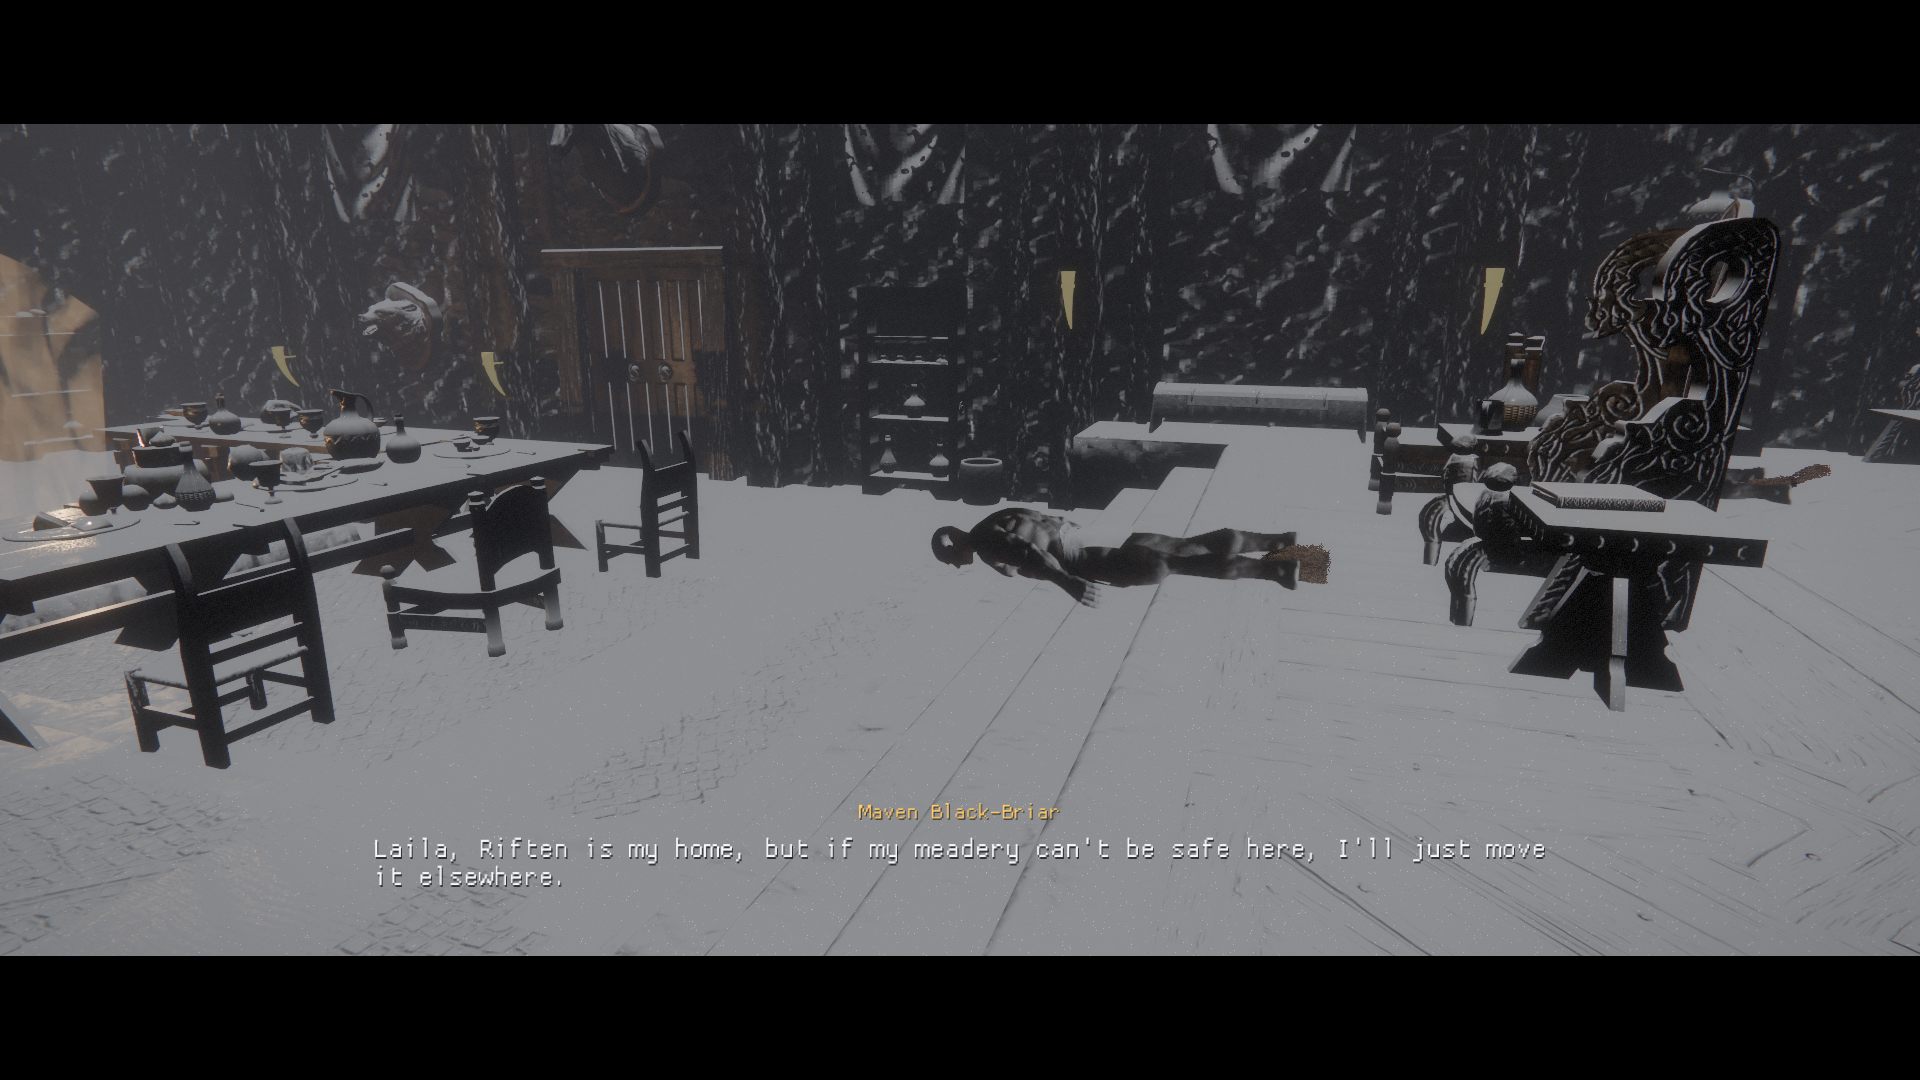
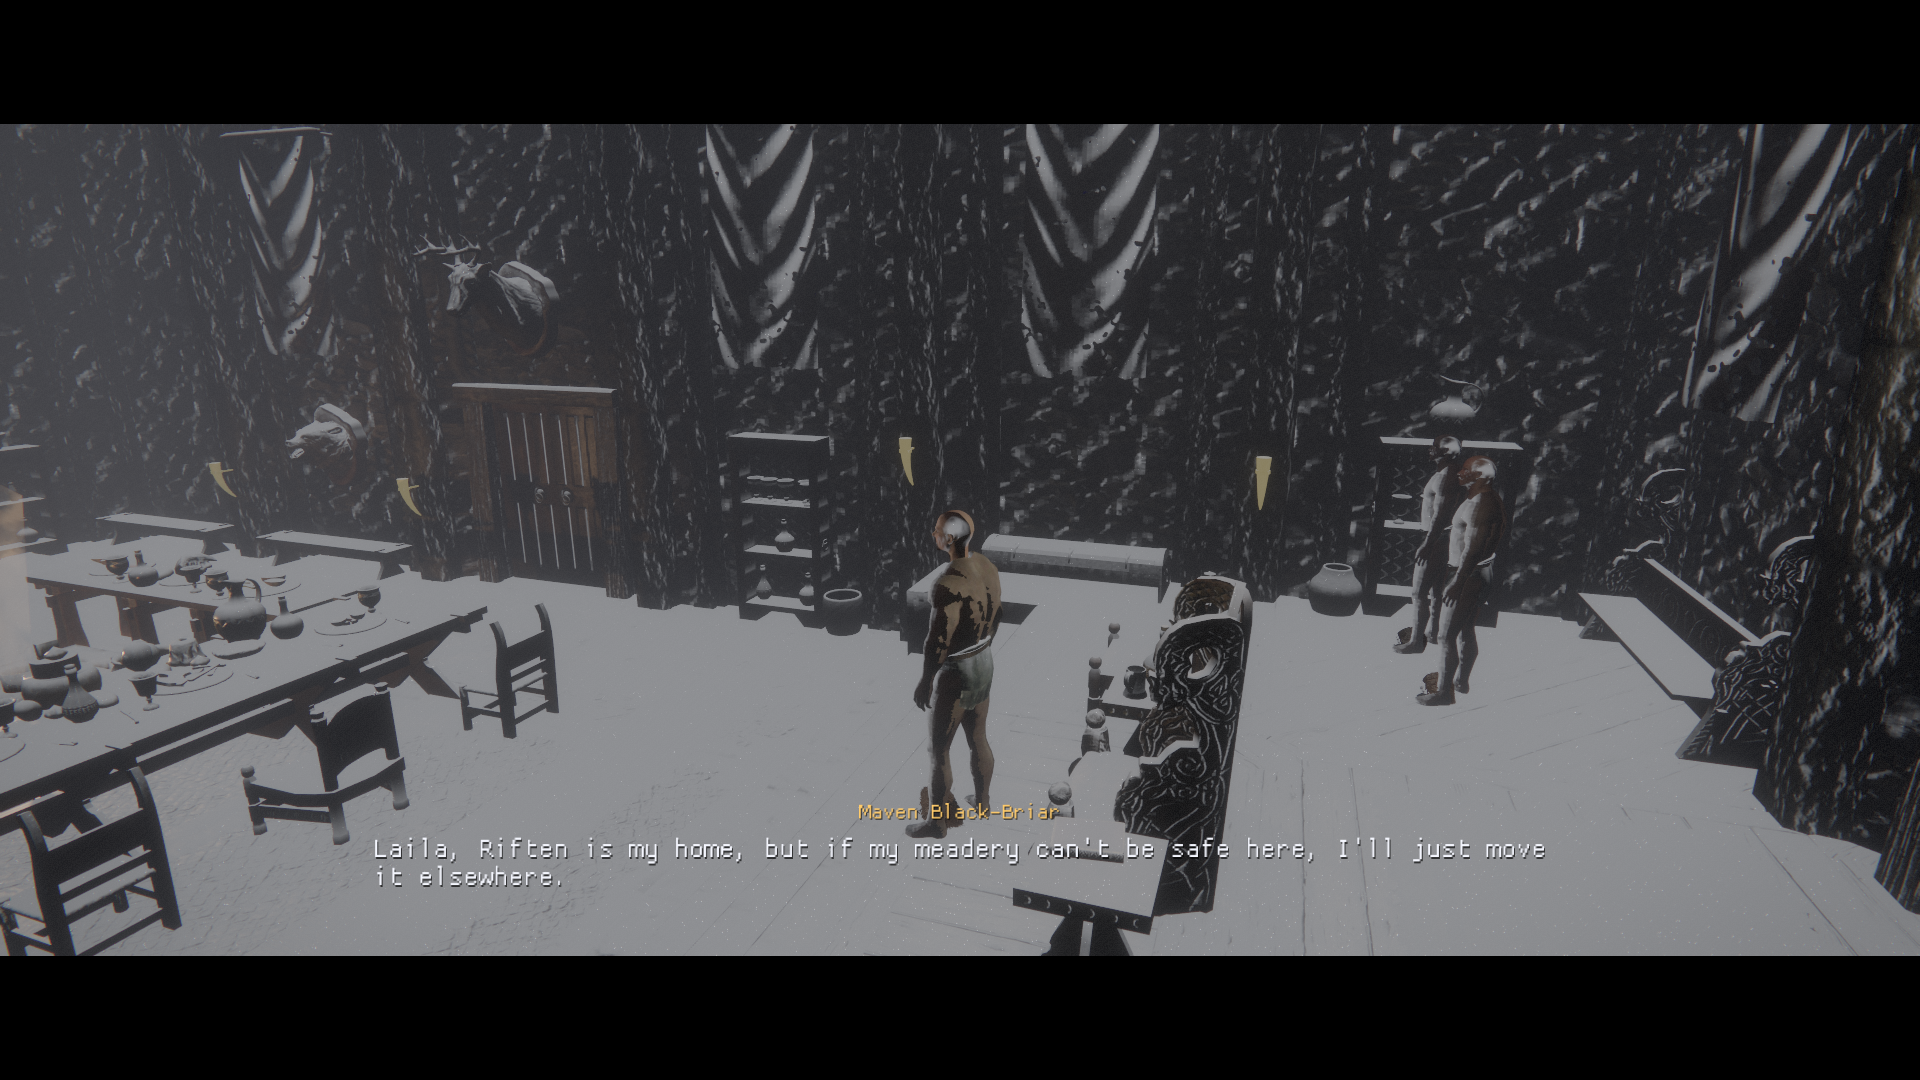
fix(world): stand placed actors up
Every placed actor in every game rendered lying on its back. A REFR's rotation
was converted with the axis change from Bethesda's Z-up space to the engine's
Y-up, but a skinned actor already converts its own skeleton, so the two composed
and tipped the body 90 degrees. A placed actor now carries a plain yaw about
engine up, which is the only axis the games rotate one about.

The shared NPC template also holds the game's standing idle (mt_idle_a_base)
rather than the procedural gait, which is authored against the builtin biped's
bones and produces nonsense on a Bethesda rig; an actor with no clip and no
procedural gait falls back to its bind pose.

Changed region(s): [[0.0, 0.0917, 1.0, 0.8861], [0.0625, 0.2139, 0.0938, 0.2444]]

diff --git a/runtime/actor_system.cc b/runtime/actor_system.cc
@@ -652,6 +652,7 @@ bool ActorSystem::LoadFalloutActorTemplate(Actor* out) {
 }
 
 void ActorSystem::LoadBuiltinActorTemplate(Actor* out) {
+  out->procedural_gait = true;  // the gait code is authored against these bones
   // Fallback rig for games with no dedicated body loader (Fallout 4): a
   // procedural biped so their NPCs are visible placeholders rather than
   // invisible markers. Skyrim and Starfield load real skinned bodies; this
@@ -1527,9 +1528,12 @@ void ActorSystem::UpdateOneActor(Actor& actor, f32 dt) {
       actor.pose.ResetToBind(actor.skeleton);
       SampleAnimationClip(*clip, actor.kf_time, &actor.pose);
     }
-  } else {
+  } else if (actor.procedural_gait) {
     actor.locomotion.phase = anim::AdvancePhase(actor.locomotion.phase, actor.speed, dt);
     actor.locomotion.Apply(actor.skeleton, actor.speed, &actor.pose);
+  } else {
+    // A game rig with nothing playing on it stands in its bind pose.
+    actor.pose.ResetToBind(actor.skeleton);
   }
 
   // Additive layer (RX_KINEMA path): compose the baked additive (delta) clip onto
@@ -1895,6 +1899,23 @@ bool ActorSystem::EnsureNpcTemplate() {
   tmpl.animate = true;
   tmpl.speed = 0.0f;     // idle
   tmpl.foot_ik = false;  // skip per-NPC ground raycasts
+  // The game's own standing idle, so a streamed NPC breathes instead of holding a
+  // bind-pose T. Candidates in order: the movement idle every actor falls back to,
+  // then the variants shipped beside it.
+  if (!tmpl.procedural_gait) {
+    static constexpr const char* kIdleClips[] = {
+        "meshes/actors/character/animations/mt_idle_a_base.hkx",
+        "meshes/actors/character/animations/mt_idle_b_base.hkx",
+        "meshes/actors/character/animations/idlestop.hkx",
+    };
+    for (const char* clip : kIdleClips) {
+      if (!PlayHavokClip(tmpl, clip, "meshes/actors/character/character assets/skeleton.hkx",
+                         "character"))
+        continue;
+      RX_INFO("npc rendering: standing idle from {}", clip);
+      break;
+    }
+  }
   npc_template_ = std::move(tmpl);
   RX_INFO("npc actor template ready ({} parts)", npc_template_->parts.size());
   return true;

diff --git a/engine/world/cell_streaming.cc b/engine/world/cell_streaming.cc
@@ -2588,7 +2588,19 @@ bool CellStreamer::SpawnReference(ecs::World& world, i16 grid_x, i16 grid_y, u64
     transform.position[0] = position.x;
     transform.position[1] = position.y;
     transform.position[2] = position.z;
-    RefrRotationToEngine(placement + 3, transform.rotation);
+    // An actor's rotation is a plain yaw about engine up, NOT the axis-changed
+    // reference rotation: the skinned actor already converts its Bethesda-space
+    // skeleton into engine space, so composing the axis change again here tips the
+    // whole body onto its back. The games only ever rotate a placed actor about
+    // their own up axis anyway.
+    {
+      const f32 yaw = -placement[5];  // game euler z, counted clockwise
+      const f32 half = yaw * 0.5f;
+      transform.rotation[0] = 0;
+      transform.rotation[1] = std::sin(half);
+      transform.rotation[2] = 0;
+      transform.rotation[3] = std::cos(half);
+    }
     const f32 authored_position[3] = {transform.position[0], transform.position[1],
                                       transform.position[2]};
     if (saved_state && saved_state->moved)

diff --git a/runtime/actor_system.h b/runtime/actor_system.h
@@ -220,6 +220,10 @@ class ActorSystem {
     base::Vector<Mat4> bone_model;  // model-space per skeleton bone
     base::Vector<ActorPart> parts;
     bool animate = true;  // false = hold the bind pose
+    // The hand-rolled procedural gait (anim::Locomotion) is authored against the
+    // builtin biped's bones. A real game skeleton with no clip holds its bind pose
+    // instead: running the procedural pose on a Bethesda rig lays the body out flat.
+    bool procedural_gait = false;
     // The caller owns this actor's world position (a scripted mover, e.g. the
     // carriage horse): the looping clip still animates the legs in place, but
     // its extracted root motion is not integrated into the entity transform.

diff --git a/docs/CUTSCENES.md b/docs/CUTSCENES.md
@@ -71,8 +71,7 @@ An unvoiced line still plays, timed by its reading length.
 
 `RiftenKeepScene11` playing in Mistveil Keep: the scene started itself with its
 quest, the dialogue camera framed the exchange, and the caption is the INFO's own
-text under the speaker's real name, timed by her voice clip. The prone figure is the
-actor-pose defect noted below, not part of the scene.
+text under the speaker's real name, timed by her voice clip.
 
 ## Verified quests
 
@@ -111,6 +110,16 @@ clips, packages all resolved) without a live playthrough of that quest.
 still runs; it spawns its own cart, horse and riders instead of using the placed
 references. It goes away once the staging gap below is closed.
 
+## Fixed along the way
+
+Every placed actor in every game was lying on its back. A REFR's rotation was
+converted with the axis change that turns Bethesda's Z-up space into the engine's
+Y-up, but a skinned actor already converts its Bethesda-space skeleton itself, so the
+two composed and tipped the body 90 degrees. Placed actors now carry a plain yaw
+about engine up (the only axis the games rotate an actor about), and the shared NPC
+template holds the game's own standing idle (`mt_idle_a_base.hkx`) instead of the
+procedural gait, which is authored against the builtin biped's bones.
+
 ## Known gaps
 
 * **Voice coverage is 43%.** 3369 lines name a clip that is not in the archives
@@ -124,13 +133,6 @@ references. It goes away once the staging gap below is closed.
   or created (much of the ambient town dialogue) have no reference to point at yet,
   so they play as voices and subtitles in the gameplay view. Filling those alias
   kinds is the remaining work.
-* **A streamed NPC that nothing drives renders in a prone T-pose.** It has a
-  skinned instance and is in the right place, but its pose comes out lying in mid
-  air (visible in the screenshot above). The director now puts a scene's cast on the
-  game's standing idle, which did not fix it, and a control run of the same interior
-  with no scene active shows the same bodies: this is an actor-system defect, not a
-  scene one. It is the single biggest thing between "the cutscene runs" and "the
-  cutscene looks right".
 * **Some staged casts are invisible.** MQ101's intro actors resolve, are enabled,
   are streamed and have skinned instances, but do not draw at their staged positions
   on the mountain, so the ride's establishing shot is an empty road. The scene itself
